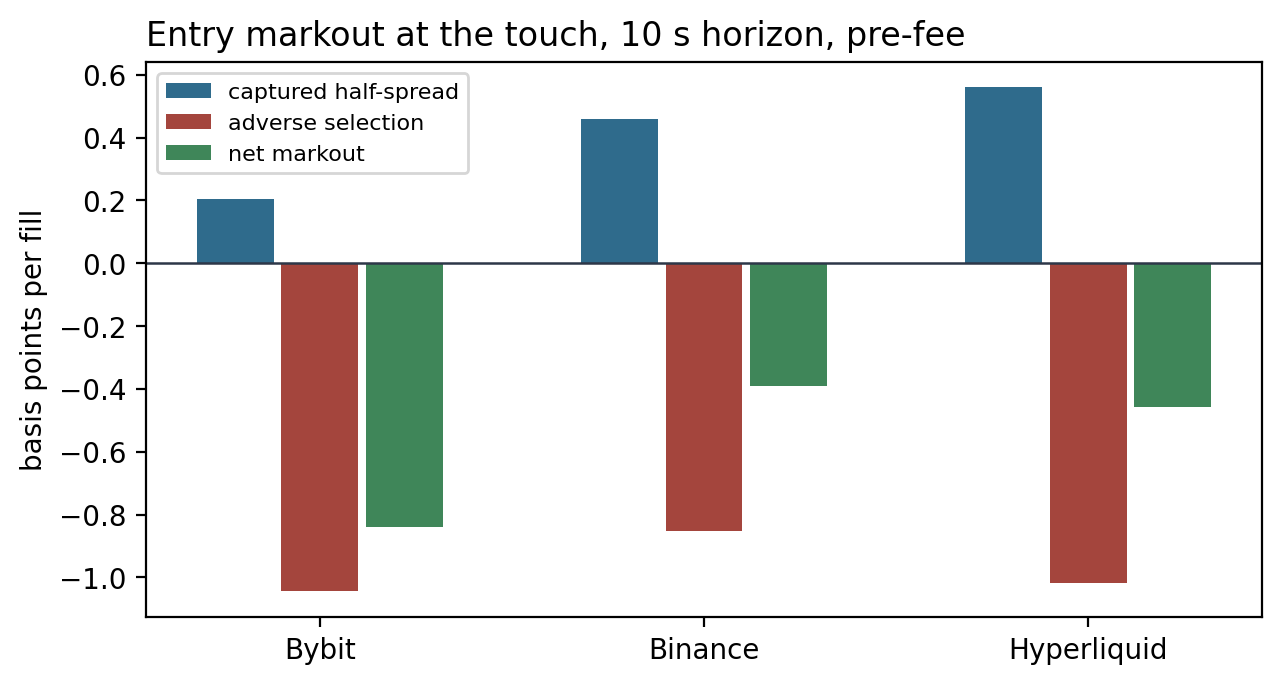
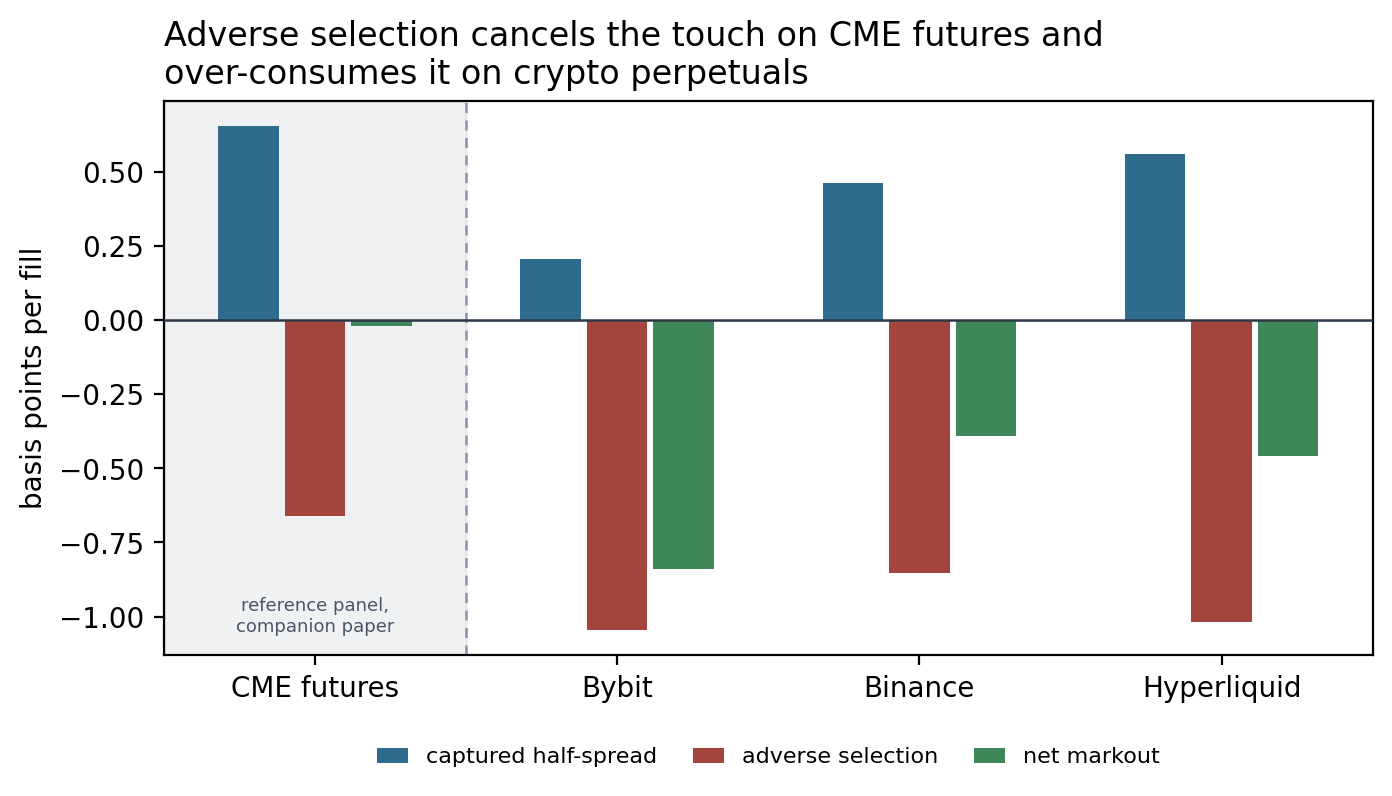
feat(figures): show CME as a reference group in the decomposition figure
The first figure plotted three crypto venues with the cancelling case the
paper inverts described only in prose. It now carries a fourth group,
shaded and separated behind a rule, hardcoded from the published companion
and produced by no panel here. The caption states that those bars are a
different asset class over a different period from a different feed and
are a reference point rather than a matched comparison.

The other three figures are byte-different only because they were
regenerated on a newer matplotlib; the appendix now says byte-identity
holds on a given version, which the PDFs embed.

Changed region(s): [[0.0, 0.0307, 0.9984, 0.9825]]

diff --git a/reproduce/make_figures.py b/reproduce/make_figures.py
@@ -41,6 +41,12 @@ DISPLAY = {"bybit_perp": "Bybit", "binance_um": "Binance",
            "hyperliquid": "Hyperliquid", "asia": "Asia", "europe": "Europe",
            "us": "US"}
 
+# The CME reference bars in the first figure. These are the published figures of
+# the companion paper, not a measurement made here, and they are hardcoded for
+# exactly that reason: nothing in this package produces them and no shipped
+# panel should appear to. Different asset class, period and feed.
+CME_COMPANION = {"capture_bp": 0.654, "adverse_bp": -0.661, "net_bp": -0.022}
+
 
 def load(name):
     return json.loads((HERE / name).read_text())
@@ -56,22 +62,42 @@ def save(fig, stem):
 
 
 def fig_decomposition():
+    """The three crypto venues, with the CME companion as a reference panel.
+
+    The CME bars are not a fourth measurement from this study. They are the
+    published companion figures on a different asset class, period and feed, so
+    they are shaded and separated to keep the contrast readable without
+    presenting it as a matched comparison.
+    """
     d = load("decomposition_by_venue.json")["venues"]
     names = list(d)
     cap = [d[v]["pooled"]["10s_row_mean"]["capture_bp"] for v in names]
     adv = [d[v]["pooled"]["10s_row_mean"]["adverse_bp"] for v in names]
     net = [d[v]["pooled"]["10s_row_mean"]["net_bp"] for v in names]
-    x = np.arange(len(names))
-    fig, ax = plt.subplots(figsize=(7.2, 3.6))
-    ax.bar(x - 0.22, cap, 0.2, color=C_CAP, label="captured half-spread")
-    ax.bar(x, adv, 0.2, color=C_ADV, label="adverse selection")
-    ax.bar(x + 0.22, net, 0.2, color=C_NET, label="net markout")
-    ax.axhline(0, color="#2d3748", lw=0.9)
+
+    labels = ["CME futures"] + [DISPLAY.get(n, n) for n in names]
+    cap = [CME_COMPANION["capture_bp"]] + cap
+    adv = [CME_COMPANION["adverse_bp"]] + adv
+    net = [CME_COMPANION["net_bp"]] + net
+
+    x = np.arange(len(labels))
+    fig, ax = plt.subplots(figsize=(7.8, 3.6))
+    ax.axvspan(-0.5, 0.5, color="#8a94a6", alpha=0.13, zorder=0)
+    ax.axvline(0.5, color="#8a94a6", lw=0.9, ls=(0, (4, 3)), zorder=1)
+    ax.bar(x - 0.22, cap, 0.2, color=C_CAP, label="captured half-spread", zorder=2)
+    ax.bar(x, adv, 0.2, color=C_ADV, label="adverse selection", zorder=2)
+    ax.bar(x + 0.22, net, 0.2, color=C_NET, label="net markout", zorder=2)
+    ax.axhline(0, color="#2d3748", lw=0.9, zorder=3)
     ax.set_xticks(x)
-    ax.set_xticklabels([DISPLAY.get(n, n) for n in names])
+    ax.set_xticklabels(labels)
+    ax.set_xlim(-0.5, len(labels) - 0.5)
     ax.set_ylabel("basis points per fill")
-    ax.set_title("Entry markout at the touch, 10 s horizon, pre-fee", loc="left")
-    ax.legend(fontsize=8)
+    ax.set_title("Adverse selection cancels the touch on CME futures and\n"
+                 "over-consumes it on crypto perpetuals", loc="left")
+    ax.text(0, 0.035, "reference panel,\ncompanion paper", transform=ax.get_xaxis_transform(),
+            ha="center", va="bottom", fontsize=6.5, color="#4a5568")
+    ax.legend(fontsize=8, ncol=3, loc="upper center", bbox_to_anchor=(0.5, -0.13),
+              frameon=False, handlelength=1.4, columnspacing=1.6)
     save(fig, "fig1_decomposition")
 
 
